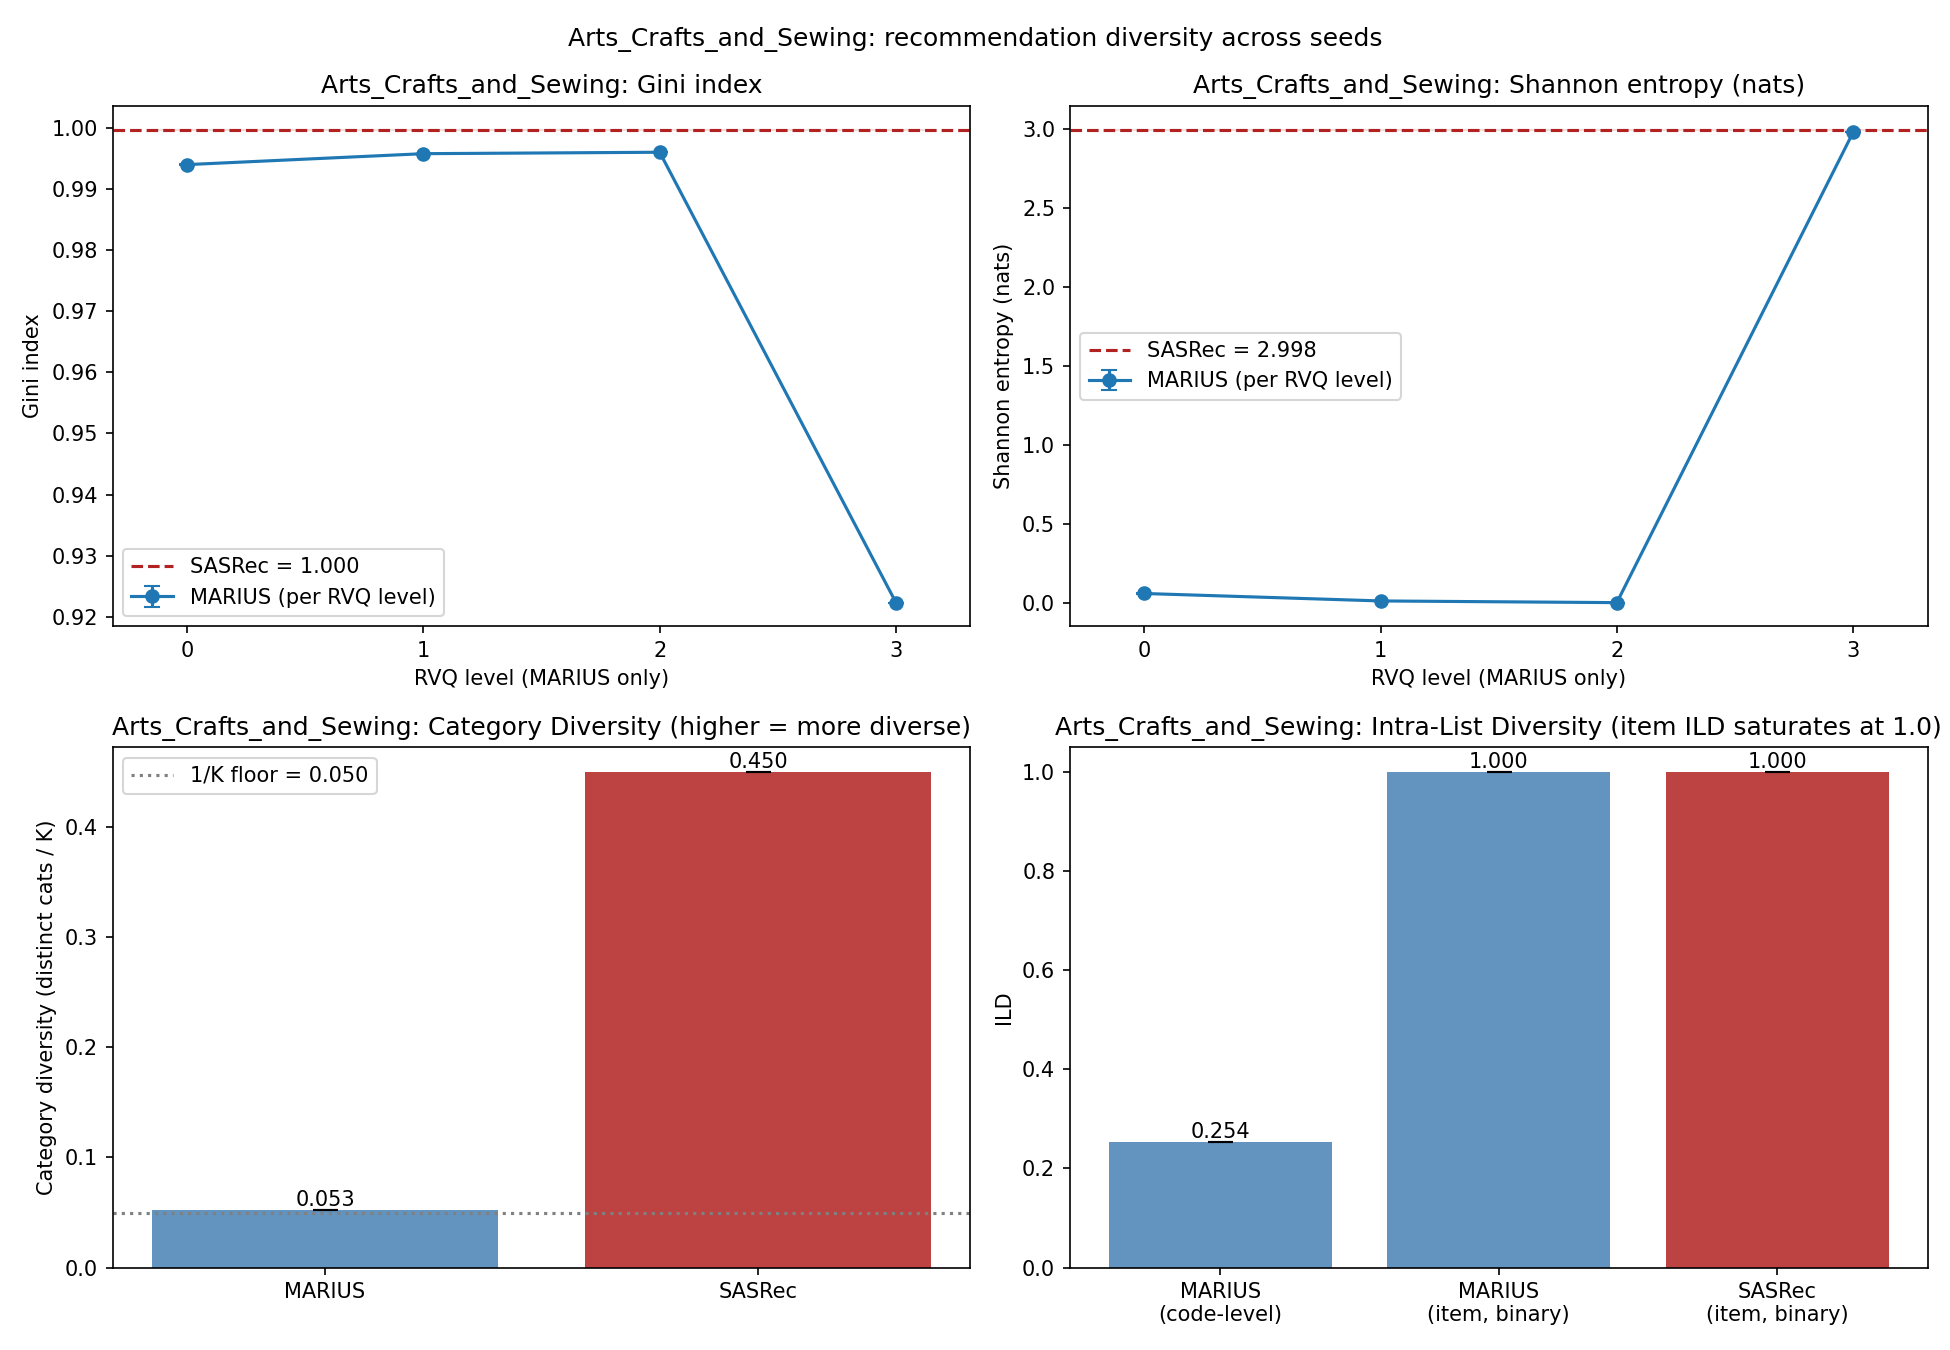
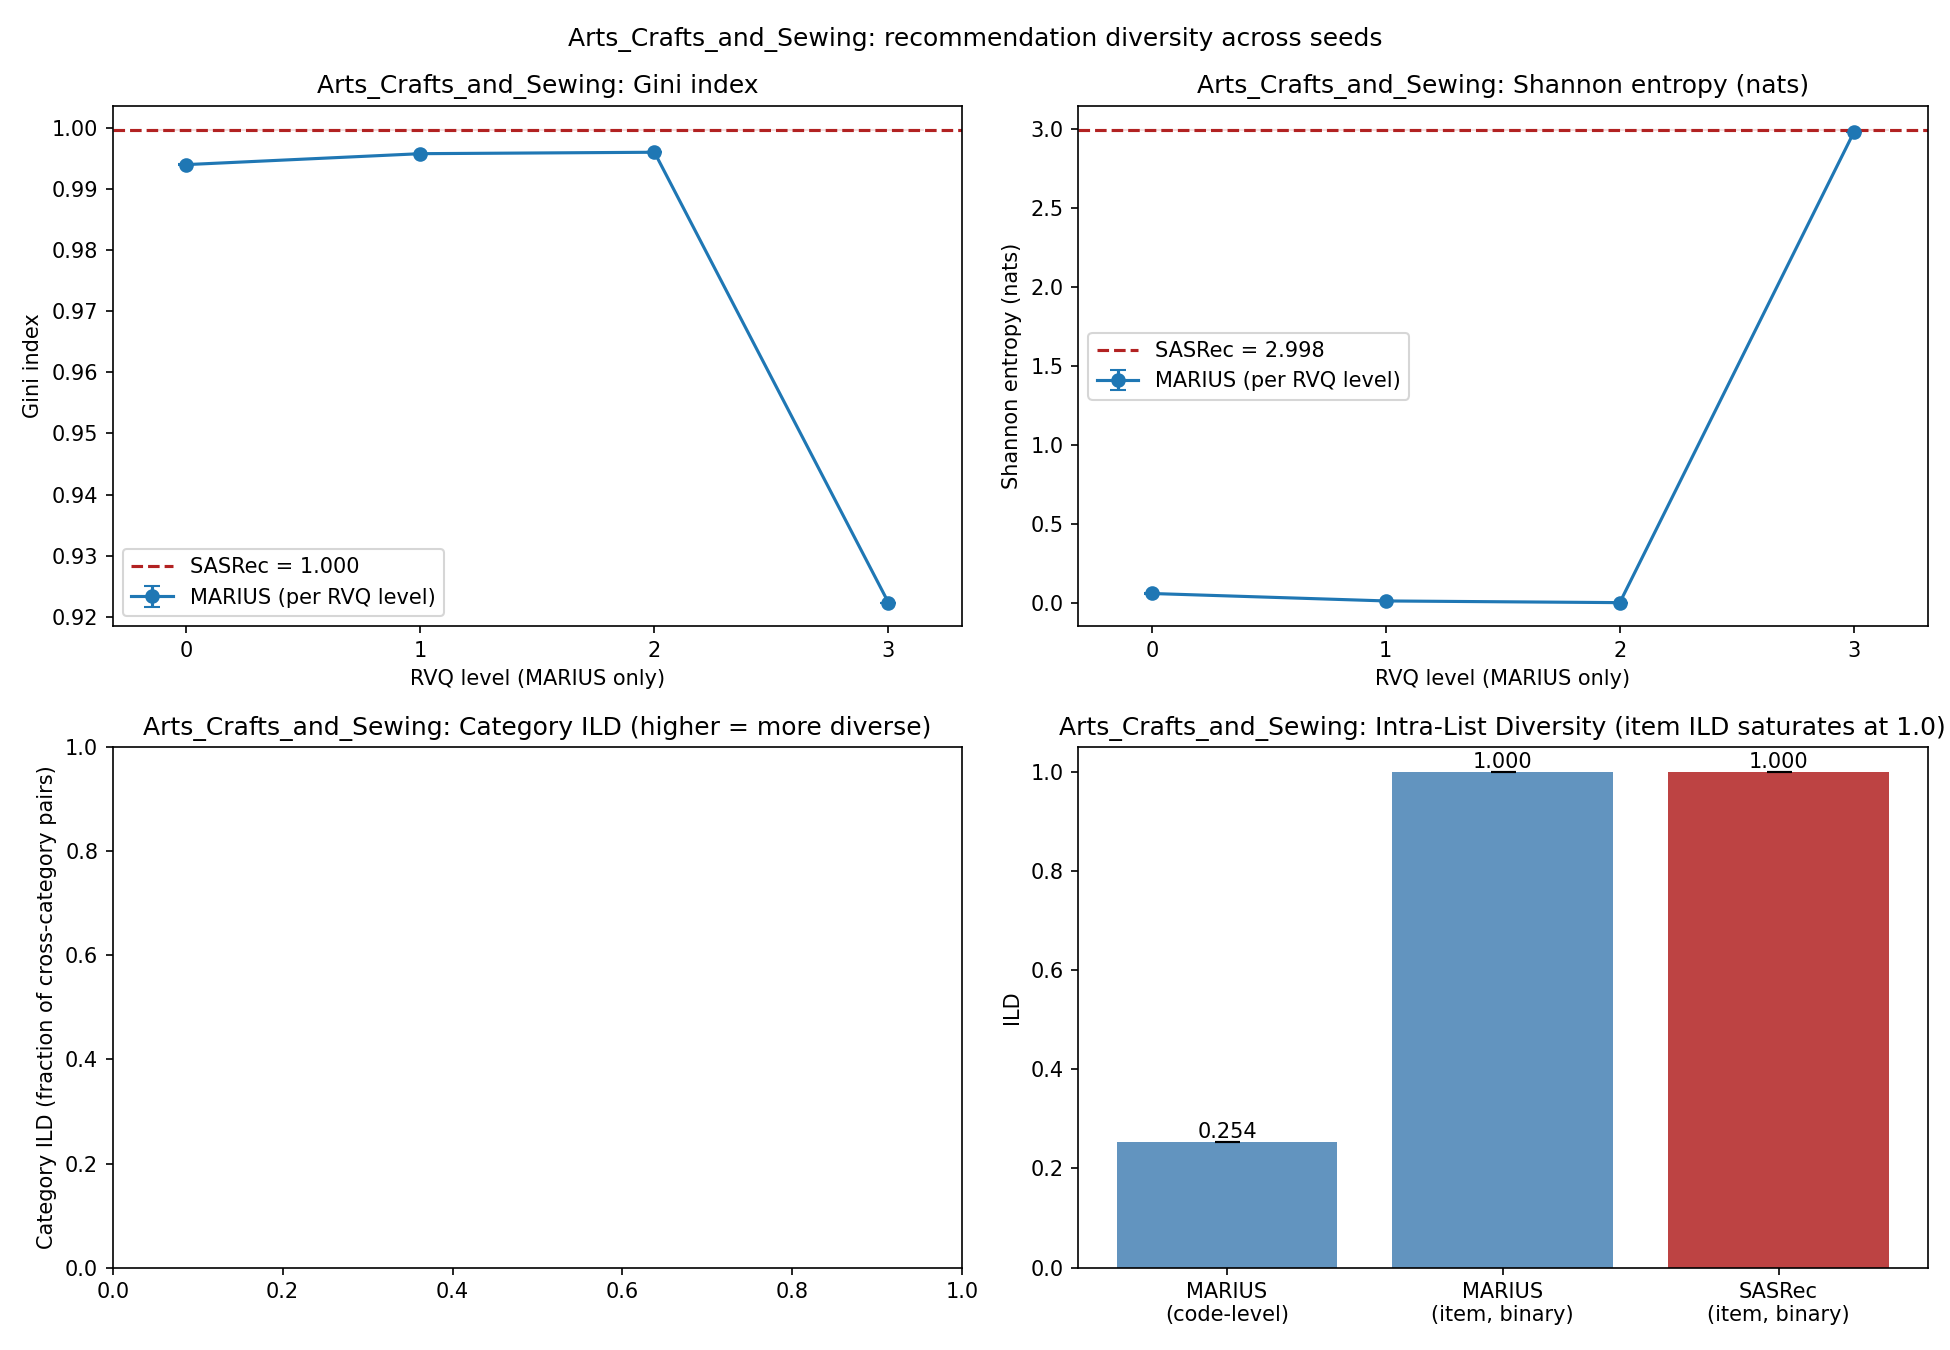
FIxed ILD metric to now go over categories. Code is ready, waiting on the final results from snellius

diff --git a/scripts/summarize_diversity.py b/scripts/summarize_diversity.py
@@ -59,7 +59,8 @@ def to_rows(runs: list[dict]) -> list[dict]:
                         # Binary item-level ILD (comparable to SASRec); the level-0
                         # row carries the code-level Hamming ILD instead.
                         "ild": run.get("item_ild"),
-                        "category_diversity": run.get("category_diversity"),
+                        "category_ild": run.get("category_ild"),
+                        "unknown_category_frac": run.get("unknown_category_frac"),
                         "n_total": run["n_items"],
                         "valid_HR10": run["valid_HR10"],
                     }
@@ -73,7 +74,8 @@ def to_rows(runs: list[dict]) -> list[dict]:
                     "gini": run["gini"],
                     "entropy": run["entropy"],
                     "ild": ild,
-                    "category_diversity": run.get("category_diversity"),
+                    "category_ild": run.get("category_ild"),
+                    "unknown_category_frac": run.get("unknown_category_frac"),
                     "n_total": run["n_items"],
                     "valid_HR10": run["valid_HR10"],
                 }
@@ -90,7 +92,8 @@ def write_csv(rows: list[dict], path: Path) -> None:
         "gini",
         "entropy",
         "ild",
-        "category_diversity",
+        "category_ild",
+        "unknown_category_frac",
         "n_total",
         "n_groups",
         "mean_group_size",
@@ -128,12 +131,19 @@ def grouped_stats(rows: list[dict]) -> dict[tuple[str, str], dict]:
         ild_vals = [r["ild"] for r in vals if r.get("ild") is not None]
         if ild_vals:
             entry["ild"] = (float(np.mean(ild_vals)), float(np.std(ild_vals)), len(ild_vals))
-        cat_vals = [r["category_diversity"] for r in vals if r.get("category_diversity") is not None]
-        if cat_vals:
-            entry["category_diversity"] = (
-                float(np.mean(cat_vals)),
-                float(np.std(cat_vals)),
-                len(cat_vals),
+        cat_ild_vals = [r["category_ild"] for r in vals if r.get("category_ild") is not None]
+        if cat_ild_vals:
+            entry["category_ild"] = (
+                float(np.mean(cat_ild_vals)),
+                float(np.std(cat_ild_vals)),
+                len(cat_ild_vals),
+            )
+        unk_vals = [r["unknown_category_frac"] for r in vals if r.get("unknown_category_frac") is not None]
+        if unk_vals:
+            entry["unknown_category_frac"] = (
+                float(np.mean(unk_vals)),
+                float(np.std(unk_vals)),
+                len(unk_vals),
             )
         # Support diagnostics (generative per-level rows only): mean across seeds.
         for field in ("mean_group_size", "mean_distinct_codes", "total_distinct_codes"):
@@ -157,8 +167,8 @@ def write_summary_txt(rows: list[dict], stats: dict, category: str, path: Path) 
         "Entropy (nats): higher = more diverse/uniform recommendations.",
         "ILD (item rows): binary intra-list diversity (fraction of distinct item pairs per user); same computation for both methods, so directly comparable.",
         "ILD (MARIUS level-0 row): normalized Hamming distance over RVQ codes - code-level diversity, not comparable to the binary item-level ILD.",
-        "CatDiv: distinct item categories / K per user (same computation for both methods; higher = more diverse).",
-        "MARIUS Gini/Entropy are per RVQ level (conditioned on preceding levels); ILD/CatDiv are single list-level values.",
+        "CatILD: binary intra-list diversity over category labels (fraction of recommended pairs in different categories) - the Gini-Simpson diversity index; same computation for both methods, so directly comparable. For MARIUS it is currently depressed by the high unknown-category fraction.",
+        "MARIUS Gini/Entropy are per RVQ level (conditioned on preceding levels); ILD/CatILD are single list-level values.",
         "SASRec metrics are a single flat value over recommended item ids.",
         "",
     ]
@@ -170,9 +180,23 @@ def write_summary_txt(rows: list[dict], stats: dict, category: str, path: Path) 
     )
     lines.append("")
 
+    # CatILD sanity check: if a method's recs largely fail the category lookup
+    # (high unknown fraction), its CatILD collapses toward 0 for a spurious reason
+    # (all-unknown pairs "match"). Near-zero here means a low CatILD is genuine.
+    unk_lines = []
+    for method in methods:
+        s = stats.get((method, "item"))
+        if s and "unknown_category_frac" in s:
+            um, us, _ = s["unknown_category_frac"]
+            unk_lines.append(f"  {method:<8}: {um:.4f} +/- {us:.4f}")
+    if unk_lines:
+        lines.append("Unknown-category fraction of recommended items (CatILD sanity check; lower = more trustworthy):")
+        lines.extend(unk_lines)
+        lines.append("")
+
     header = (
         f"{'method':<10} | {'level':<6} | {'gini mean +/- std':<22} | {'entropy (nats)':<22} | "
-        f"{'ILD':<20} | {'CatDiv':<20} | {'grp':>7} | {'codes':>7}"
+        f"{'ILD':<20} | {'CatILD':<20} | {'grp':>7} | {'codes':>7}"
     )
     lines.append(header)
     lines.append("-" * len(header))
@@ -187,16 +211,16 @@ def write_summary_txt(rows: list[dict], stats: dict, category: str, path: Path) 
                 ild_str = f"{im:.4f} +/- {is_:.4f}"
             else:
                 ild_str = "-"
-            if "category_diversity" in s:
-                cm, cs, _ = s["category_diversity"]
-                cat_str = f"{cm:.4f} +/- {cs:.4f}"
+            if "category_ild" in s:
+                cim, cis, _ = s["category_ild"]
+                cat_ild_str = f"{cim:.4f} +/- {cis:.4f}"
             else:
-                cat_str = "-"
+                cat_ild_str = "-"
             grp = f"{s['mean_group_size']:.2f}" if "mean_group_size" in s else "-"
             codes = f"{s['mean_distinct_codes']:.2f}" if "mean_distinct_codes" in s else "-"
             lines.append(
                 f"{method:<10} | {level:<6} | {gm:.4f} +/- {gs:.4f}        | "
-                f"{em:.4f} +/- {es:.4f}  | {ild_str:<20} | {cat_str:<20} | {grp:>7} | {codes:>7}  (n={n})"
+                f"{em:.4f} +/- {es:.4f}  | {ild_str:<20} | {cat_ild_str:<20} | {grp:>7} | {codes:>7}  (n={n})"
             )
 
     path.parent.mkdir(parents=True, exist_ok=True)
@@ -245,12 +269,13 @@ def write_plot(stats: dict, category: str, path: Path) -> bool:
         ax.set_xticks(range(len(marius_levels)))
         ax.legend()
 
-    # Category diversity (distinct leaf categories / K) is the headline new metric:
-    # same computation for both methods, so MARIUS vs SASRec is directly comparable.
+    # Category ILD (Gini-Simpson over recommended categories): same computation for
+    # both methods, so MARIUS vs SASRec is directly comparable. Unlike binary item
+    # ILD it does not saturate, since distinct items frequently share a category.
     cat_methods, cat_means, cat_stds = [], [], []
     for method, key in [("MARIUS", ("MARIUS", "item")), ("SASRec", ("SASRec", "item"))]:
-        if key in stats and "category_diversity" in stats[key]:
-            m, s, _ = stats[key]["category_diversity"]
+        if key in stats and "category_ild" in stats[key]:
+            m, s, _ = stats[key]["category_ild"]
             cat_methods.append(method)
             cat_means.append(m)
             cat_stds.append(s)
@@ -260,12 +285,8 @@ def write_plot(stats: dict, category: str, path: Path) -> bool:
         for bar, val in zip(bars, cat_means):
             ax_cat.text(bar.get_x() + bar.get_width() / 2, val, f"{val:.3f}",
                         ha="center", va="bottom", fontsize=10)
-        # 1/K floor: a single-category list. K = recommendation list length.
-        floor = 1.0 / 20
-        ax_cat.axhline(floor, color="gray", linestyle=":", label=f"1/K floor = {floor:.3f}")
-        ax_cat.legend()
-    ax_cat.set_ylabel("Category diversity (distinct cats / K)")
-    ax_cat.set_title(f"{category}: Category Diversity (higher = more diverse)")
+    ax_cat.set_ylabel("Category ILD (fraction of cross-category pairs)")
+    ax_cat.set_title(f"{category}: Category ILD (higher = more diverse)")
 
     # ILD: the binary item-level ILD saturates at 1.0 for both methods (top-K lists
     # never repeat an item), so the discriminating signal is MARIUS's code-level

diff --git a/scripts/eval_diversity.py b/scripts/eval_diversity.py
@@ -28,7 +28,6 @@ from scripts.benchmark_extensions import FILENAMES, get_best_checkpoint
 from src.data.ray_data import get_items_map, get_quantized
 from src.models import SpecialTokens
 from src.utils.metrics import (
-    category_diversity,
     summarize_dense,
     summarize_dense_entropy,
     summarize_dense_ild,
@@ -225,11 +224,21 @@ def evaluate_run(
         "valid_HR10": best_valid_hr10(run_dir),
     }
 
-    # Category diversity (distinct categories / K, per user) - same computation for
-    # both methods, so MARIUS and SASRec are directly comparable on diversity.
+    # Category-level ILD: same binary pairwise distance as the item-level ILD, but
+    # over category labels instead of item identity. Unlike the item-level ILD (which
+    # saturates at 1.0 since top-K lists never repeat an item), this varies because
+    # distinct items frequently share a category; it is the Gini-Simpson diversity
+    # index over the recommended categories. Computed identically for both methods,
+    # so directly comparable.
     rec_cats = recommended_categories(cfg, gen, cfg.model.mode, category_level)
     result["category_level"] = str(category_level)
-    result["category_diversity"] = category_diversity(rec_cats)
+    result["category_ild"] = summarize_dense_ild(rec_cats)
+    # Sanity check for the CatILD result: fraction of recommended items that failed
+    # the category lookup and fell to the UNKNOWN sentinel. If this is large, a
+    # near-floor CatILD is a lookup artifact rather than genuine low diversity.
+    result["unknown_category_frac"] = float(
+        np.mean(rec_cats == UNKNOWN_CATEGORY)
+    )
 
     if cfg.model.mode == "generative":
         # K = codes per level (256 in the paper's COSETTE_128d_256x4 setup):

diff --git a/src/utils/metrics.py b/src/utils/metrics.py
@@ -224,22 +224,3 @@ def summarize_generative_item_ild(gen):
     item_ids = _item_ids(gen).reshape(B, K)
     return summarize_dense_ild(item_ids)
 
-
-def category_diversity(rec_categories):
-    """Mean per-user category diversity: distinct categories / K, averaged over users.
-
-    Unlike ILD (which scores diversity from item identity / RVQ codes), this uses
-    an external product taxonomy, and is computed identically for SASRec and
-    MARIUS - so the two are directly comparable. Map each recommended item to its
-    category label upstream (use a shared sentinel for items with no category).
-
-    `rec_categories` shape (B, K): the category label of each recommended item
-    (any hashable). Range (0, 1]: 1.0 = every recommended item a distinct category,
-    1/K = all K share one category.
-    """
-    rec_categories = np.asarray(rec_categories, dtype=object)
-    B, K = rec_categories.shape
-    if K == 0:
-        return 0.0
-    return float(np.mean([len(set(row)) / K for row in rec_categories]))
-
